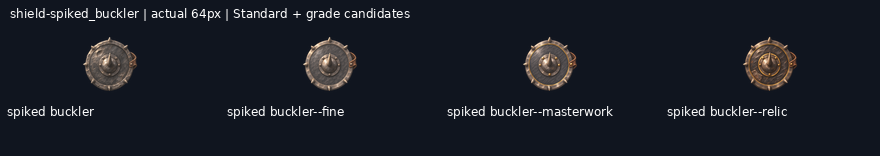
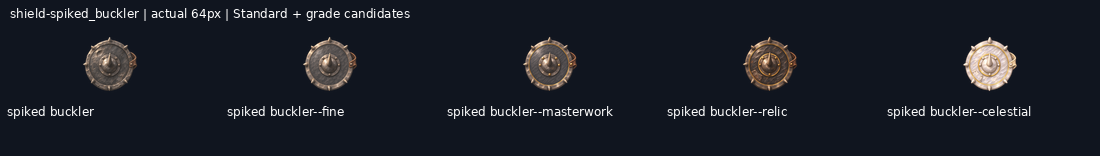
Deliver shield-spiked_buckler--celestial review candidate

diff --git a/art/_archive/gear/2026-11-20-reset-continuation/HANDOFF.md b/art/_archive/gear/2026-11-20-reset-continuation/HANDOFF.md
@@ -1,13 +1,13 @@
 # Reset continuation progress
 
-Branch: `art/2026-11-20-reset-continuation`. New deliveries: 53/94.
+Branch: `art/2026-11-20-reset-continuation`. New deliveries: 54/94.
 
 Shared coordination: https://github.com/leonpentastorm/Project-Heaven-Cry/issues/3 . Read START-HERE.md before extending this queue.
 
 All new entries remain review-candidate; production_approved:false and implementation_ready:false. Exact-outline review remains pending.
 
-Ready jobs: shield-spiked_buckler--celestial, shield-boss_shield--fine, shield-ram_plate--fine, shield-deflector--fine, shield-bulwark_screen--fine, shield-barrier_wall--fine.
+Ready jobs: shield-boss_shield--fine, shield-ram_plate--fine, shield-deflector--fine, shield-bulwark_screen--fine, shield-barrier_wall--fine.
 
-Pending jobs: weapon-hellraiser_rotary--celestial, weapon-purifier_flamer--masterwork, weapon-purifier_flamer--relic, weapon-purifier_flamer--celestial, weapon-dock_cutter--masterwork, weapon-dock_cutter--relic, weapon-dock_cutter--celestial, weapon-broadback_sabre--relic, weapon-broadback_sabre--celestial, weapon-short_draw--fine, weapon-short_draw--masterwork, weapon-short_draw--relic, weapon-short_draw--celestial, weapon-long_draw--fine, weapon-long_draw--masterwork, weapon-long_draw--relic, weapon-long_draw--celestial, weapon-kemizuchi_side_sword--masterwork, weapon-kemizuchi_side_sword--relic, weapon-kemizuchi_side_sword--celestial, shield-spiked_buckler--celestial, shield-boss_shield--fine, shield-boss_shield--masterwork, shield-boss_shield--relic, shield-boss_shield--celestial, shield-ram_plate--fine, shield-ram_plate--masterwork, shield-ram_plate--relic, shield-ram_plate--celestial, shield-deflector--fine, shield-deflector--masterwork, shield-deflector--relic, shield-deflector--celestial, shield-bulwark_screen--fine, shield-bulwark_screen--masterwork, shield-bulwark_screen--relic, shield-bulwark_screen--celestial, shield-barrier_wall--fine, shield-barrier_wall--masterwork, shield-barrier_wall--relic, shield-barrier_wall--celestial.
+Pending jobs: weapon-hellraiser_rotary--celestial, weapon-purifier_flamer--masterwork, weapon-purifier_flamer--relic, weapon-purifier_flamer--celestial, weapon-dock_cutter--masterwork, weapon-dock_cutter--relic, weapon-dock_cutter--celestial, weapon-broadback_sabre--relic, weapon-broadback_sabre--celestial, weapon-short_draw--fine, weapon-short_draw--masterwork, weapon-short_draw--relic, weapon-short_draw--celestial, weapon-long_draw--fine, weapon-long_draw--masterwork, weapon-long_draw--relic, weapon-long_draw--celestial, weapon-kemizuchi_side_sword--masterwork, weapon-kemizuchi_side_sword--relic, weapon-kemizuchi_side_sword--celestial, shield-boss_shield--fine, shield-boss_shield--masterwork, shield-boss_shield--relic, shield-boss_shield--celestial, shield-ram_plate--fine, shield-ram_plate--masterwork, shield-ram_plate--relic, shield-ram_plate--celestial, shield-deflector--fine, shield-deflector--masterwork, shield-deflector--relic, shield-deflector--celestial, shield-bulwark_screen--fine, shield-bulwark_screen--masterwork, shield-bulwark_screen--relic, shield-bulwark_screen--celestial, shield-barrier_wall--fine, shield-barrier_wall--masterwork, shield-barrier_wall--relic, shield-barrier_wall--celestial.
 
 Quota state: null.
